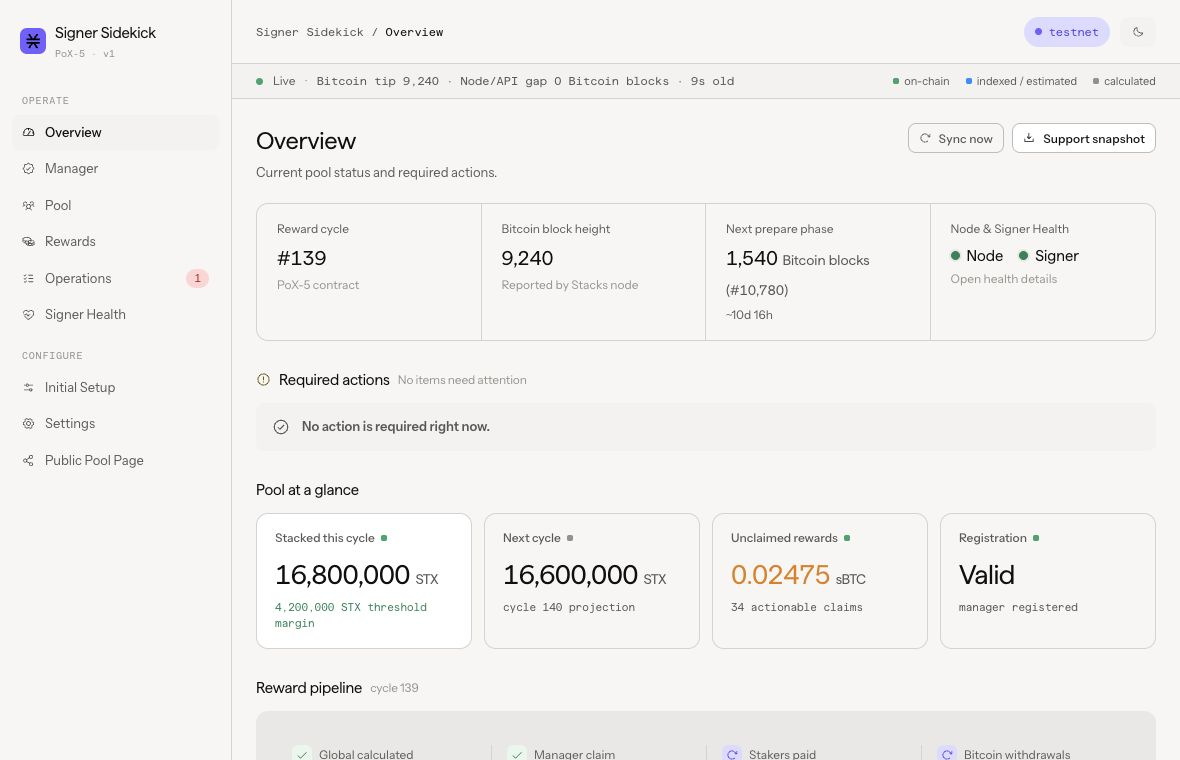
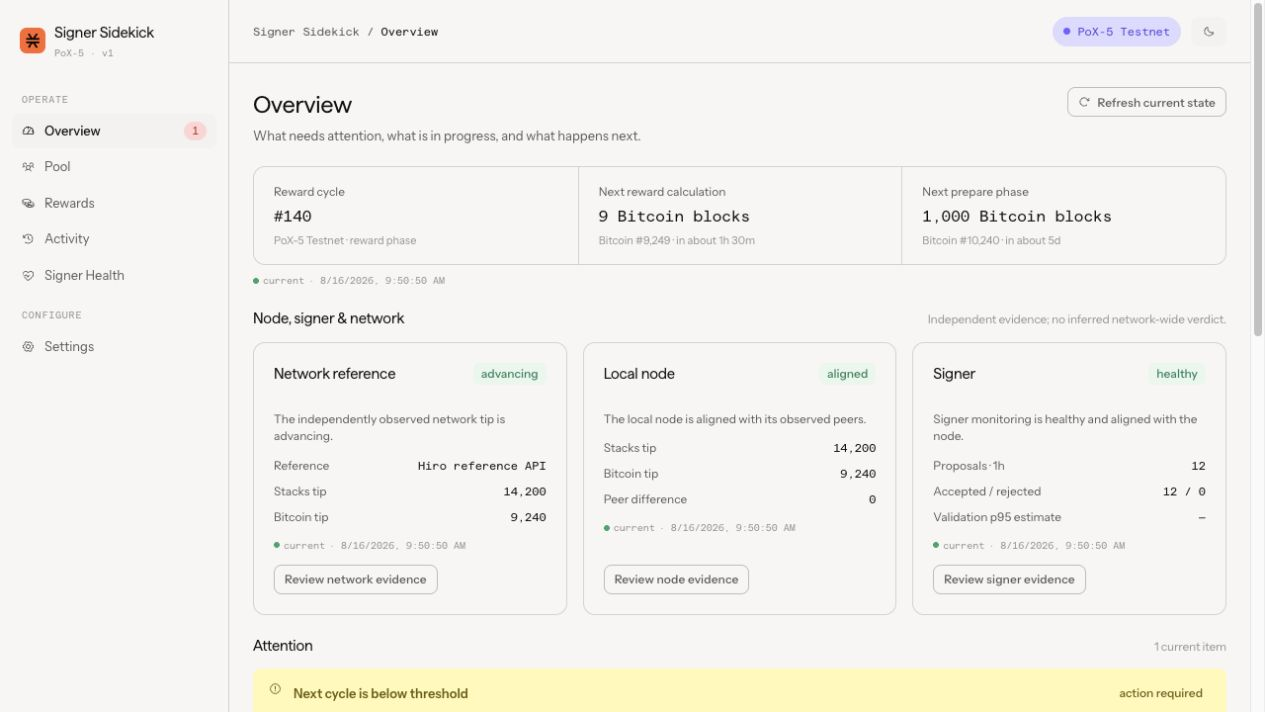
docs: refresh dashboard screenshot

diff --git a/README.md b/README.md
@@ -4,7 +4,7 @@ Signer Sidekick monitors and operates one running Stacks PoX-5 signer and pool. 
 registration, pool membership, rewards, manager actions, and signer health against the operator's
 node and an indexed Stacks API.
 
-![Signer Sidekick dashboard overview](docs/assets/dashboard-overview.jpg)
+![Signer Sidekick dashboard overview with fixture data](docs/assets/dashboard-overview.jpg)
 
 ## Use
 
